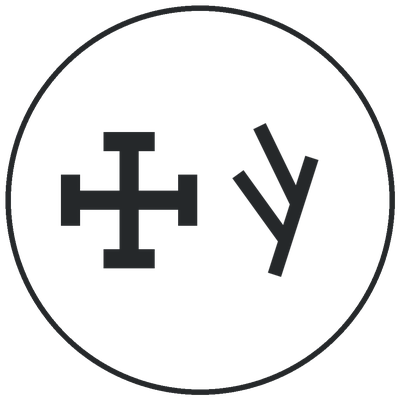
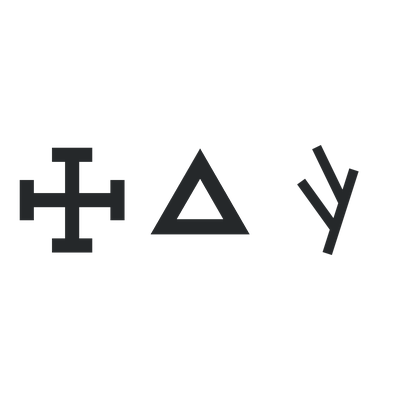
Builder: replace native prompt/confirm/alert with an in-page dialog
The link, clear-panel and bad-link dialogs used window.prompt, confirm
and alert. Those block the tab, cannot be styled, and cannot be clicked
by browser automation, so a scripted build stalled on 'Clear all'.
One dialog() helper now covers all three: Enter confirms, Esc or the
backdrop cancels, and the editor's selection is saved and restored
around the link dialog since a modal takes focus where prompt() did not.
Audited: no window.prompt/confirm/alert remain in the builder.

Also updates the email-trmf seals to the three ranch brands without the
ring, matching the web seal.

Claude-Session: https://claude.ai/code/session_01UTeRS9aHrE7b7K1QoPo7gA

diff --git a/index.html b/index.html
@@ -96,6 +96,20 @@
        padding:8px 15px;font-family:var(--display);font-size:13px;letter-spacing:.08em;
        text-transform:uppercase;cursor:pointer;}
   .btn.ghost{background:#fff;color:var(--ink);}
+
+  /* In-page dialog. Replaces window.prompt/confirm/alert, which block the
+     tab and cannot be driven by automation or styled to match the builder. */
+  .dlg{position:fixed;inset:0;z-index:1000;display:flex;align-items:center;justify-content:center;
+       background:rgba(37,40,42,.55);padding:20px;}
+  .dlg[hidden]{display:none;}
+  .dlg-box{background:#fff;border-radius:6px;width:min(440px,100%);padding:22px 24px 20px;
+       box-shadow:0 20px 50px rgba(0,0,0,.35);font-family:var(--body);}
+  .dlg-box h3{margin:0 0 8px;font-family:var(--display);font-size:15px;letter-spacing:.1em;text-transform:uppercase;}
+  .dlg-box p{margin:0 0 14px;font-size:14px;line-height:1.5;color:var(--muted);}
+  .dlg-box p:empty{display:none;}
+  .dlg-box input{width:100%;box-sizing:border-box;margin:0 0 16px;}
+  .dlg-box input[hidden]{display:none;}
+  .dlg-actions{display:flex;gap:10px;justify-content:flex-end;}
   .btn:hover{filter:brightness(1.2);}
 
   #mountWrap{background:#fff;border:1px solid var(--line);border-radius:6px;padding:16px;}
@@ -673,6 +687,47 @@
    * Details editor
    * ------------------------------------------------------------------ */
   var editor = document.getElementById('editor');
+
+  /* ---------- in-page dialog (no window.prompt / confirm / alert) ----------
+     dialog({title, message, input, placeholder, value, ok, cancel}) -> Promise
+     Resolves with the input text (or true) on OK, null on Cancel / Esc / backdrop.
+     Native dialogs block the whole tab, cannot be styled, and cannot be
+     clicked by automation; this can. */
+  function dialog(o){
+    return new Promise(function(resolve){
+      var box = document.getElementById('dlg');
+      var inp = document.getElementById('dlgInput');
+      var okB = document.getElementById('dlgOk'), noB = document.getElementById('dlgCancel');
+      document.getElementById('dlgTitle').textContent = o.title || '';
+      document.getElementById('dlgMsg').textContent = o.message || '';
+      okB.textContent = o.ok || 'OK';
+      noB.textContent = o.cancel || 'Cancel';
+      noB.hidden = o.cancel === false;
+      inp.hidden = !o.input;
+      inp.value = o.value || '';
+      inp.placeholder = o.placeholder || '';
+      var prev = document.activeElement;
+      function close(v){
+        box.hidden = true;
+        okB.removeEventListener('click', onOk); noB.removeEventListener('click', onNo);
+        box.removeEventListener('click', onBack); document.removeEventListener('keydown', onKey);
+        if (prev && prev.focus) { try { prev.focus(); } catch(e){} }
+        resolve(v);
+      }
+      function onOk(){ close(o.input ? inp.value : true); }
+      function onNo(){ close(null); }
+      function onBack(e){ if (e.target === box) close(null); }
+      function onKey(e){
+        if (e.key === 'Escape'){ e.preventDefault(); close(null); }
+        else if (e.key === 'Enter' && (o.input ? e.target === inp : true)){ e.preventDefault(); onOk(); }
+      }
+      okB.addEventListener('click', onOk); noB.addEventListener('click', onNo);
+      box.addEventListener('click', onBack); document.addEventListener('keydown', onKey);
+      box.hidden = false;
+      (o.input ? inp : okB).focus();
+      if (o.input) inp.select();
+    });
+  }
   var ED_ALLOWED = {H3:1,H4:1,P:1,STRONG:1,B:1,EM:1,I:1,U:1,UL:1,OL:1,LI:1,A:1,BR:1,HR:1,SMALL:1};
   /* SPAN is deliberately absent: with its attributes stripped it carries no
      meaning and only leaves empty tags behind from Word and Quill. */
@@ -915,12 +970,21 @@
 
   document.getElementById('edLink').addEventListener('click', function(){
     editor.focus();
-    var url = window.prompt('Link to (https://…, mailto:… or /page)');
-    if (url === null) return;
-    var safe = safeHref(url);
-    if (!safe){ window.alert('That link was not a recognised address, so nothing was added.'); return; }
-    document.execCommand('createLink', false, safe);
-    edRefresh();
+    // the dialog takes focus, so remember the selection and put it back before linking
+    var sel = window.getSelection();
+    var range = sel && sel.rangeCount ? sel.getRangeAt(0).cloneRange() : null;
+    dialog({ title:'Add link', message:'https://…, mailto:… or /page', input:true, placeholder:'https://', ok:'Add link' })
+      .then(function(url){
+        if (url === null) return;
+        var safe = safeHref(url);
+        editor.focus();
+        if (range){ sel.removeAllRanges(); sel.addRange(range); }
+        if (!safe){
+          return dialog({ title:'Link not added', message:'That was not a recognised address (https://, mailto:, tel: or /page), so nothing was added.', cancel:false });
+        }
+        document.execCommand('createLink', false, safe);
+        edRefresh();
+      });
   });
 
   document.getElementById('edRule').addEventListener('click', function(){
@@ -930,10 +994,10 @@
   });
 
   document.getElementById('edClear').addEventListener('click', function(){
-    if (!editor.textContent.trim() || window.confirm('Clear the whole details panel?')){
-      editor.innerHTML = '';
-      edRefresh();
-    }
+    function clear(){ editor.innerHTML = ''; edRefresh(); }
+    if (!editor.textContent.trim()) return clear();
+    dialog({ title:'Clear the details panel?', message:'Everything in the panel will be removed.', ok:'Clear', cancel:'Keep' })
+      .then(function(yes){ if (yes) clear(); });
   });
 
   editor.addEventListener('paste', function(e){
@@ -1610,5 +1674,16 @@
   render();
 })();
 </script>
+<div class="dlg" id="dlg" hidden role="dialog" aria-modal="true" aria-labelledby="dlgTitle">
+  <div class="dlg-box">
+    <h3 id="dlgTitle"></h3>
+    <p id="dlgMsg"></p>
+    <input type="text" id="dlgInput" hidden>
+    <div class="dlg-actions">
+      <button type="button" class="btn ghost" id="dlgCancel">Cancel</button>
+      <button type="button" class="btn" id="dlgOk">OK</button>
+    </div>
+  </div>
+</div>
 </body>
 </html>

diff --git a/README.md b/README.md
@@ -155,6 +155,10 @@ The panel is optional and additive: existing embeds are unaffected.
 
 ### Editing
 
+The builder never uses `window.prompt`, `confirm` or `alert` — those block the tab and cannot be
+driven by automation — so the link, clear and error dialogs are in-page overlays (`dialog()` in
+`index.html`). Keep it that way when adding anything that needs confirmation.
+
 The builder has a small editor for this — bold, italic, underline, bulleted and numbered lists,
 links, and Heading 3 / Heading 4 / Paragraph. Headings render in Dharma Gothic all-caps, body
 copy in ITC Clearface, matching the panel exactly.
@@ -473,7 +477,7 @@ Only the values that differ from the defaults need to appear in the snippet.
 
 A co-branded set for events hosted with the Theodore Roosevelt Medora Foundation lives at
 `assets/email-trmf/` (same eight filenames; wordmark and stamp carry both logos, the seal is
-TR's two ranch brands). Point *Where the email images are hosted* at
+TR's three ranch brands — Maltese cross, triangle and elkhorn — with no ring). Point *Where the email images are hosted* at
 `https://rsvp.labs.trlibrary.com/assets/email-trmf` to use it. `assets/email` is unchanged, so
 every email already sent keeps its images.
 
